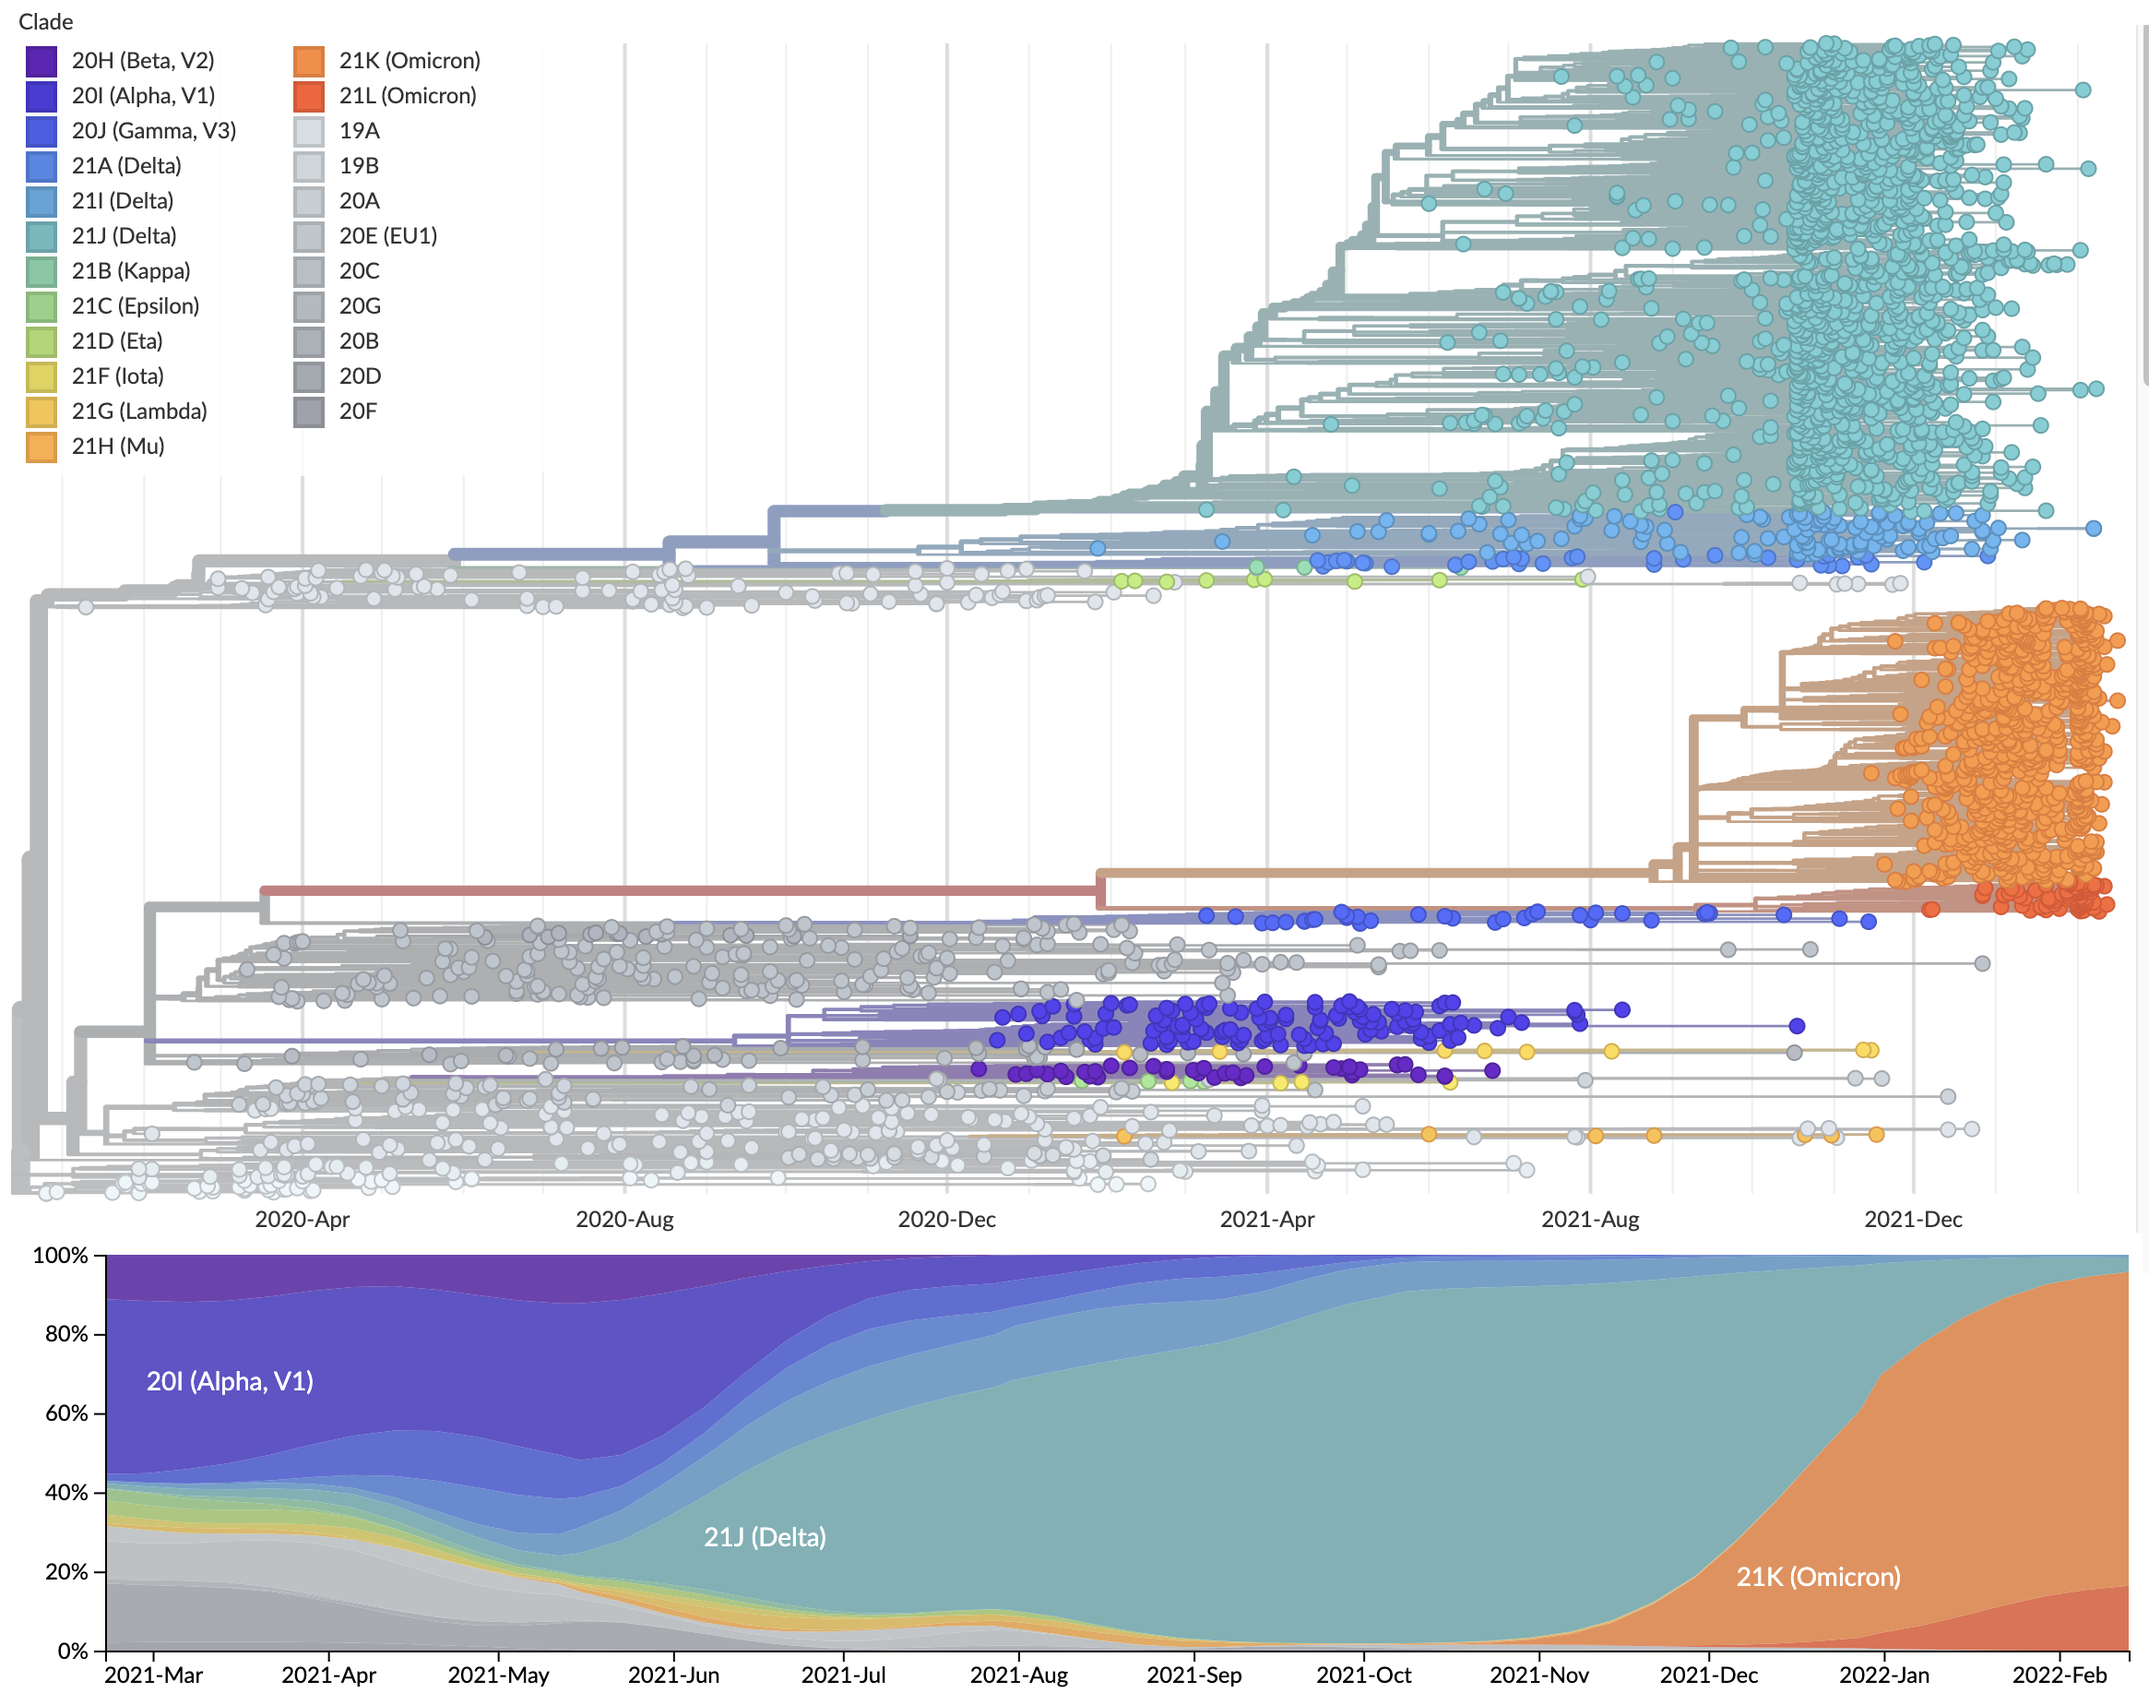
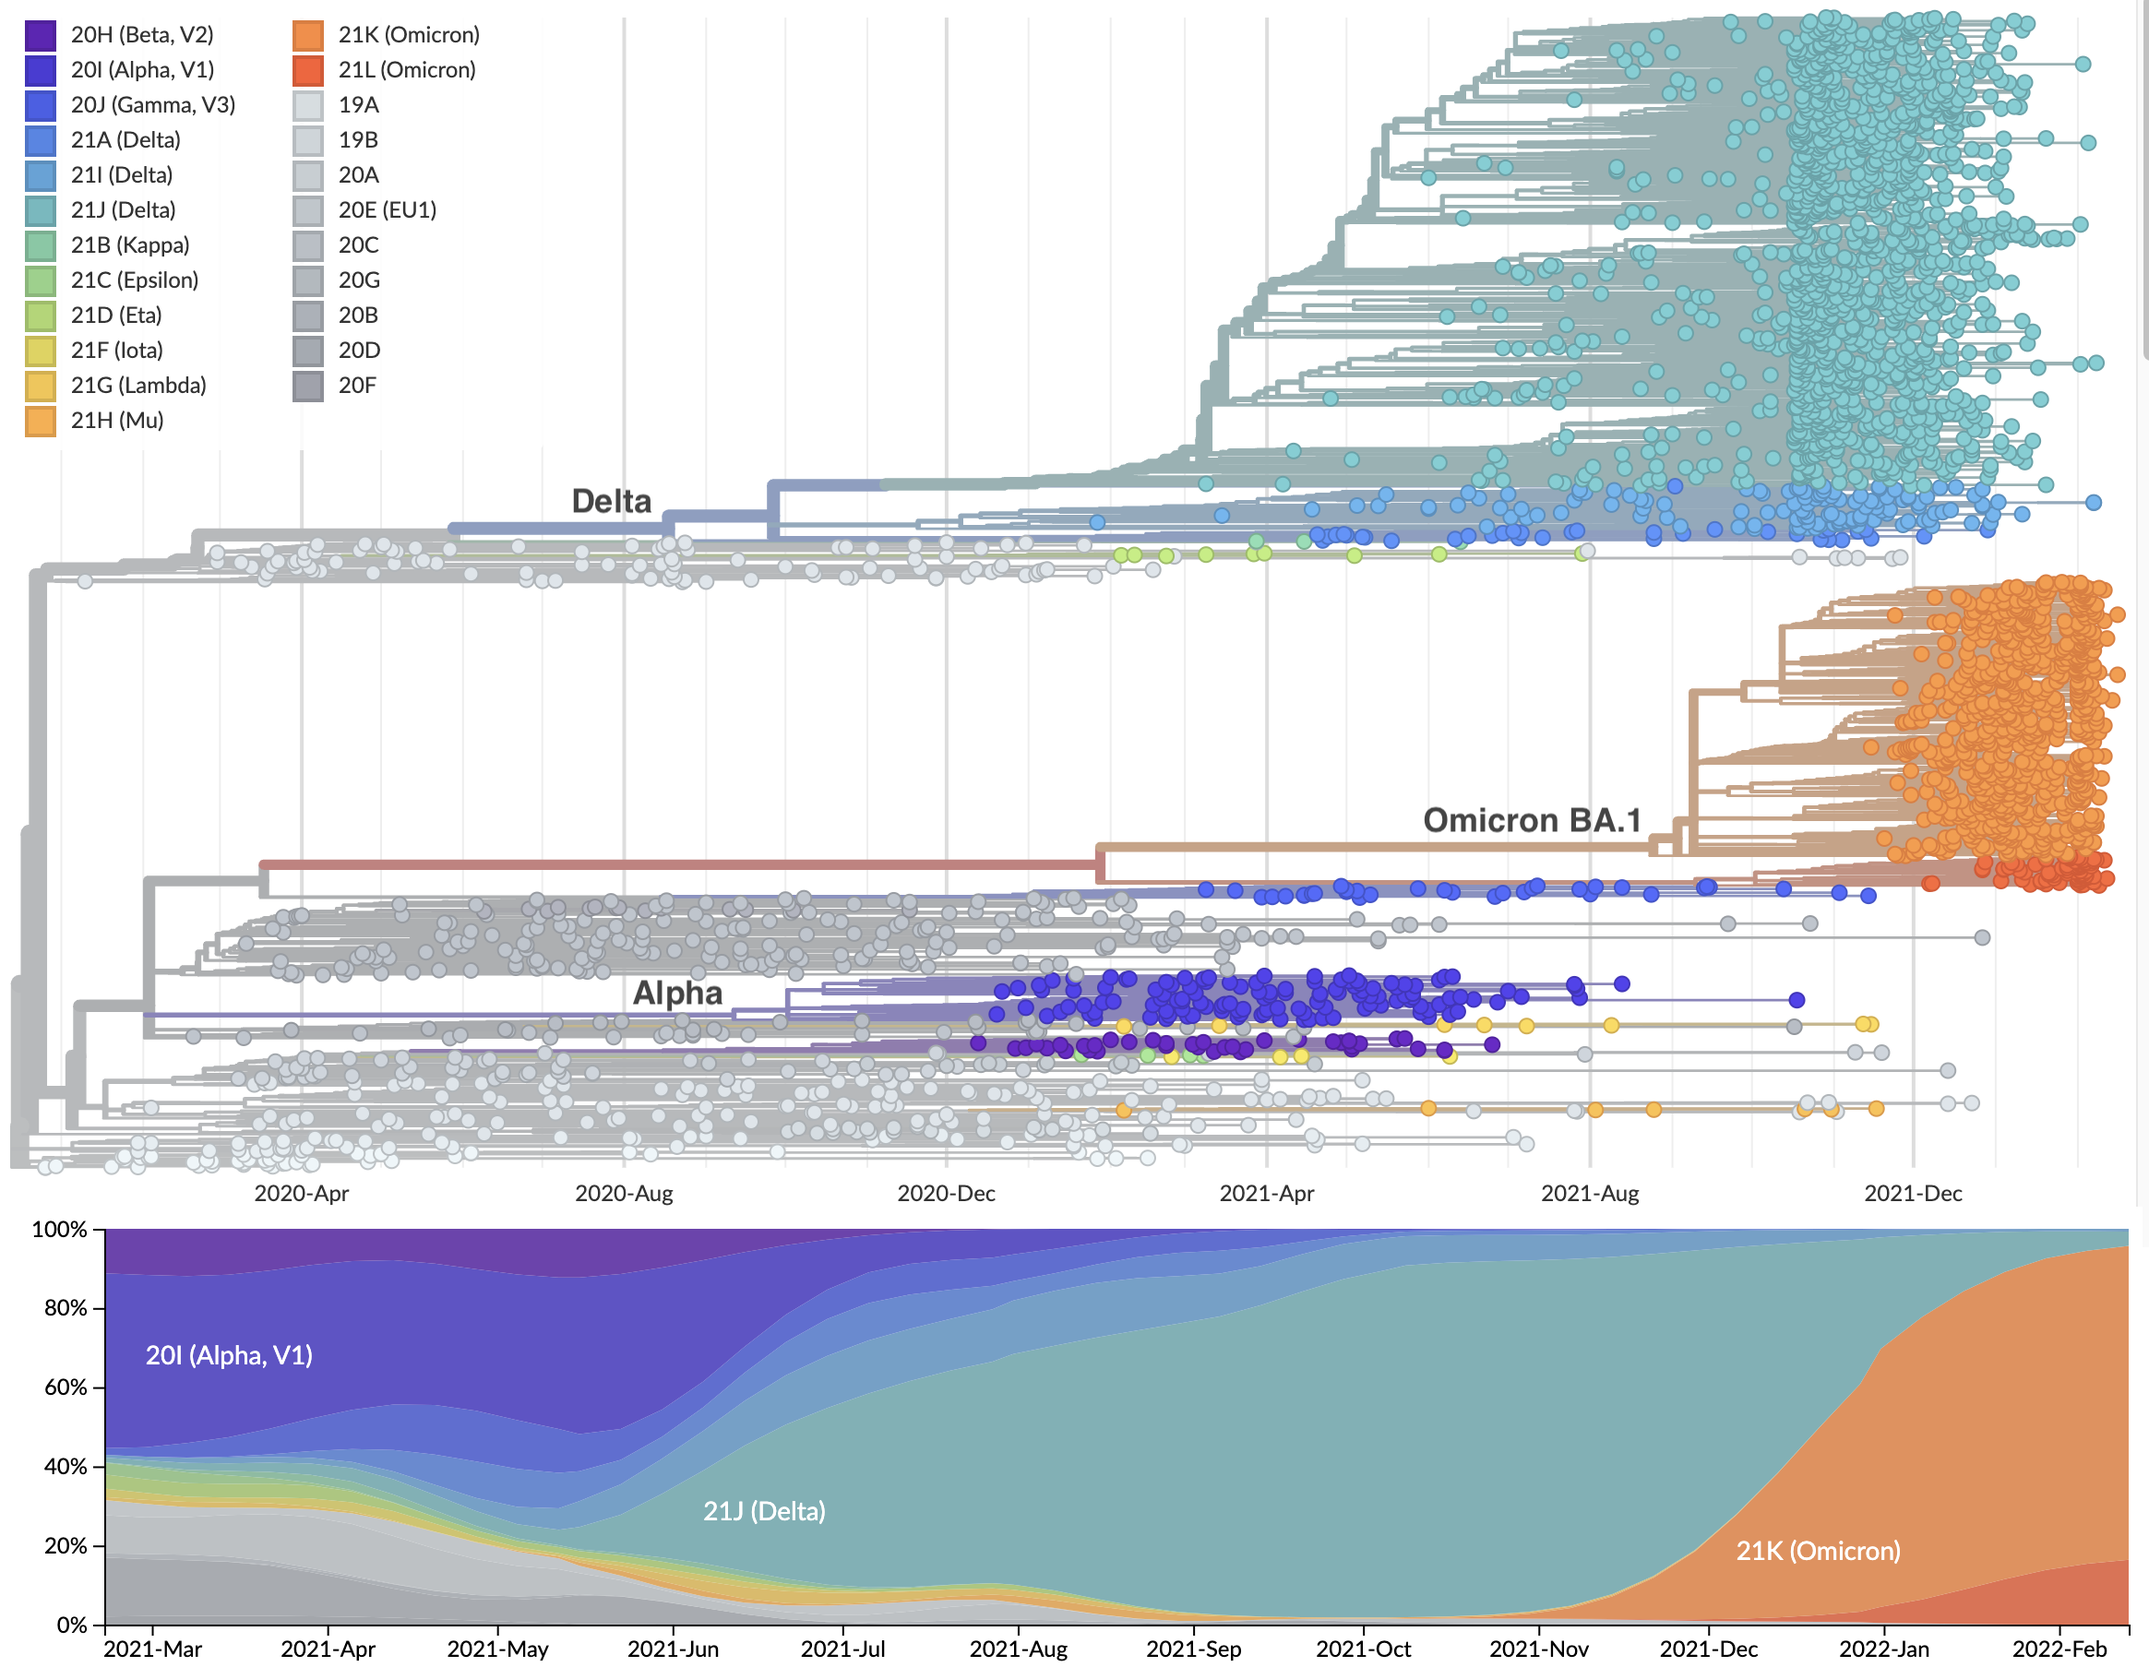
Update vaccine strategies talk

diff --git a/talks/_posts/2022-02-22-sars-cov-2-evolution-and-vaccine-strategies.html b/talks/_posts/2022-02-22-sars-cov-2-evolution-and-vaccine-strategies.html
@@ -65,7 +65,7 @@ Outline:
 	<h3>Genetic relationships of SARS-CoV-2 sampled up to Feb 2022</h3>
 	<img class="stretch" data-src="/images/talks/ncov_variants_tree_unrooted_2022_02_20.png">
 	<div class="citation">
-		<a href="/papers/kistler-sarscov2-adaptive-evolution/">nextstrain.org</a>
+		<a href="https://nextstrain.org/ncov/gisaid/global?l=unrooted&m=div">nextstrain.org</a>
 	</div>
 </section>
 
@@ -78,12 +78,12 @@ Outline:
 		<img data-src="/images/talks/ncov_variants_tree_frequencies_2022_02_20.png">
 	</div>
 	<div class="citation">
-		<a href="/papers/kistler-sarscov2-adaptive-evolution/">nextstrain.org</a>
+		<a href="https://nextstrain.org/ncov/gisaid/global">nextstrain.org</a>
 	</div>
 </section>
 
 <section>
-	<h3>Clades with more S1 amino acid changes grow faster</h3>
+	<h3>Clades with more S1 amino acid mutations grow faster</h3>
 	<img class="stretch" data-src="/images/talks/ncov_variants_s1_vs_fitness.png">
 	<div class="citation">
 		<a href="https://www.medrxiv.org/content/10.1101/2021.09.07.21263228">Obermeyer et al. 2022. medRxiv.</a>
@@ -106,42 +106,50 @@ Outline:
 	</div>
 </section>
 
-<section>
-	<h3>Hypotheses for Omicron's origin</h3>
+<section class="left-align">
+	<h3>Primary hypotheses for Omicron's origin</h3>
+	<p>
+	<ol>
+		<li>
+			Evolution during chronic infection in an immunocompromised individual
+			<ul>
+				<li>Congruent with large excess of S1 mutations, but paucity of non-spike mutations</li>
+				<li>Hard to explain simultaneous BA.1, BA.2 and BA.3 sublineages otherwise</li>
+			</ul>
+		</li>
+		<li>
+			Human to animal spillover mid-2020 and spillback in late 2021
+			<ul>
+				<li>Mutational spectra and particular mutations such as 493R and 498R suggest rodent intermediary (Wei et al)</li>
+			</ul>
+		</li>
+	</ol>
+	</p>
 </section>
-
-<!-- <section>
-	<h3>Evolution driven to increase transmissibility in novel host</h3>
-	<img class="stretch" data-src="/images/talks/sarscov2_variant_rt_growth_advantage_2021_09_23.png">
-	<div class="citation">
-		<a href="/papers/figgins-rt-from-frequency-dynamics/">Figgins and Bedford. 2021. medRxiv.</a>
-	</div>
-</section> -->
-
-<!-- Omicron and how different it really is -->
-
-<!-- <section>
-	<h3>Emergence of Omicron and descent from basal diversity</h3>
-	<img class="stretch" data-src="/images/talks/ncov_omicron_tree_2022_01_18.png">
-	<div class="citation">
-		<a href="https://nextstrain.org/ncov/gisaid/global">nextstrain.org</a>
-	</div>
-</section> -->
-
 
 <!-- 2. Comparison to influenza and seasonal CoV evolution, emphasizing the rapidity of what we’ve seen so far with SARS-CoV-2 relative to flu
  - Focus just on amino acid rate -->
 
 <section>
-	<h3>Comparisons to influenza and seasonal CoV evolution</h3>
+	<h3>S1 evolved at a rate of 12 amino acid changes per year in 2021</h3>
+ 	<img class="stretch" data-src="/images/talks/ncov_mutation_rate_spike_clock_2022_02_20.png">
 </section>
+
+<section>
+	<h3>This is remarkably fast relative to seasonal influenza</h3>
+ 	<img class="stretch" data-src="/images/talks/ncov_mutation_rate_compared_to_flu_2022_02_20.png">
+</section>
+
+<!-- <section>
+	<h3>Stronger evolution means that emergence of SARS-CoV-2 variants drive epidemics</h3>
+</section> -->
 
 <!-- 3. Discussion of immediate trends as existing genetic diversity plays out
  - We’ll see displacement of BA.1 by BA.2 over the coming ~8 weeks
  - Still potential for return of Delta viruses, which should become clear in ~April -->
 
  <section>
- 	<h3>Incredible rate of global spread driving large-scale epidemics</h3>
+ 	<h3>Omicron's incredible rate of spread drove large-scale epidemics</h3>
  	<img class="stretch" data-src="/images/talks/ncov_omicron_rt_log_cases_2022_02_20.png">
  	<div class="citation">
  		<a href="/papers/figgins-rt-from-frequency-dynamics/">Figgins and Bedford. 2021. medRxiv.</a>
@@ -217,10 +225,10 @@ Outline:
 	<p>
 	<ol>
 		<li>
-			Evolution within Omicron BA.2 to further increase intrinsic transmission and to escape from Omicron-derived immunity. This scenario sees lower attack rates with 2022-2023 epidemic driven by draft + waning + seasonality.
+			Evolution within Omicron BA.2 to further increase intrinsic transmission and to escape from Omicron-derived immunity. This scenario sees lower attack rates with 2022-2023 epidemic driven by drift + waning + seasonality.
 		</li>
 		<li>
-			Another Omicron-like emergence event in which a chronic infection initiated in ~2021 incubates a new wildly divergent virus. This scenario sees high attack rates with epidemic driven by varint emergence.
+			Another Omicron-like emergence event in which a chronic infection initiated in ~2021 incubates a new wildly divergent virus. This scenario sees high attack rates with epidemic driven by variant emergence.
 		</li>
 	</ol>
 	</p>
